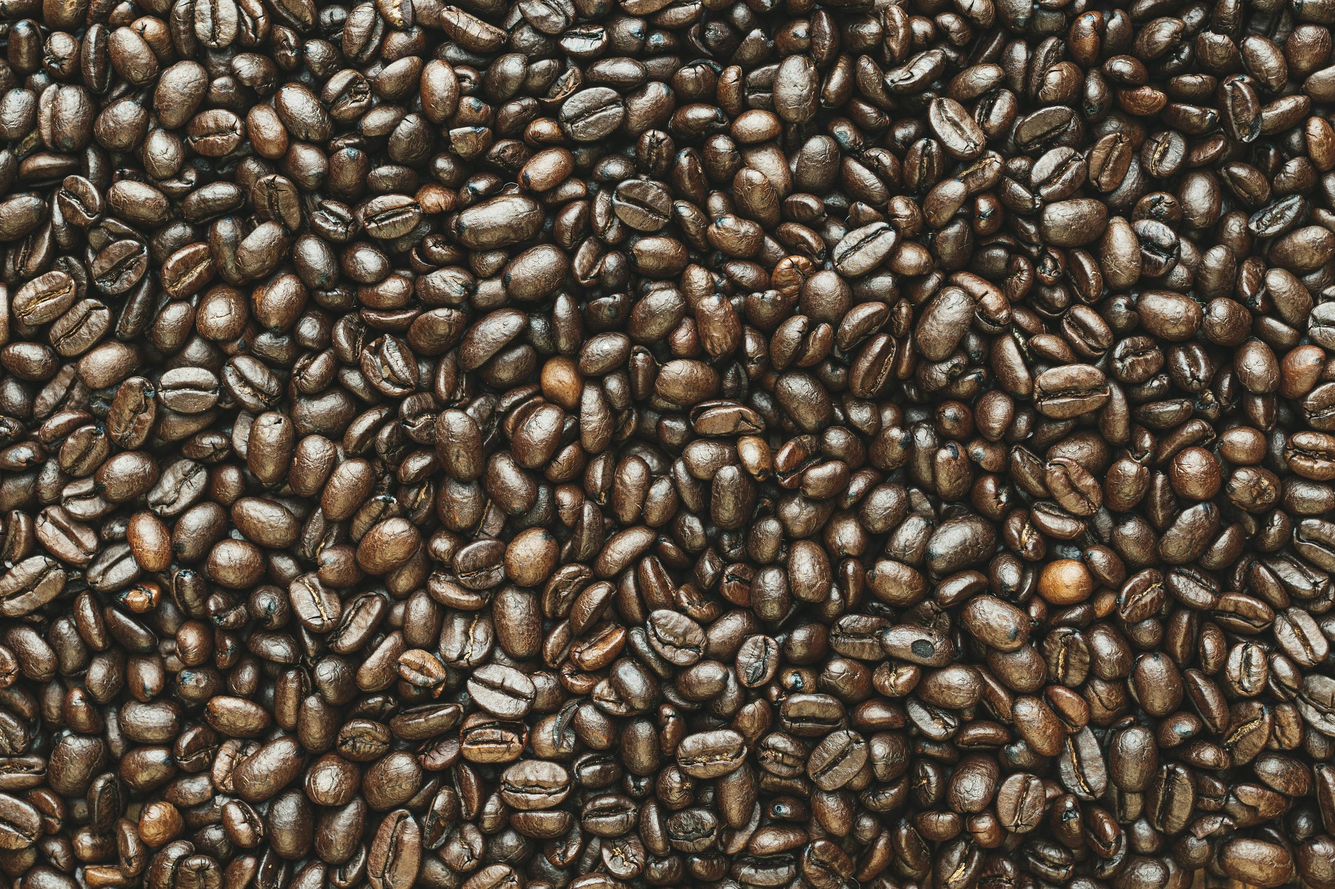
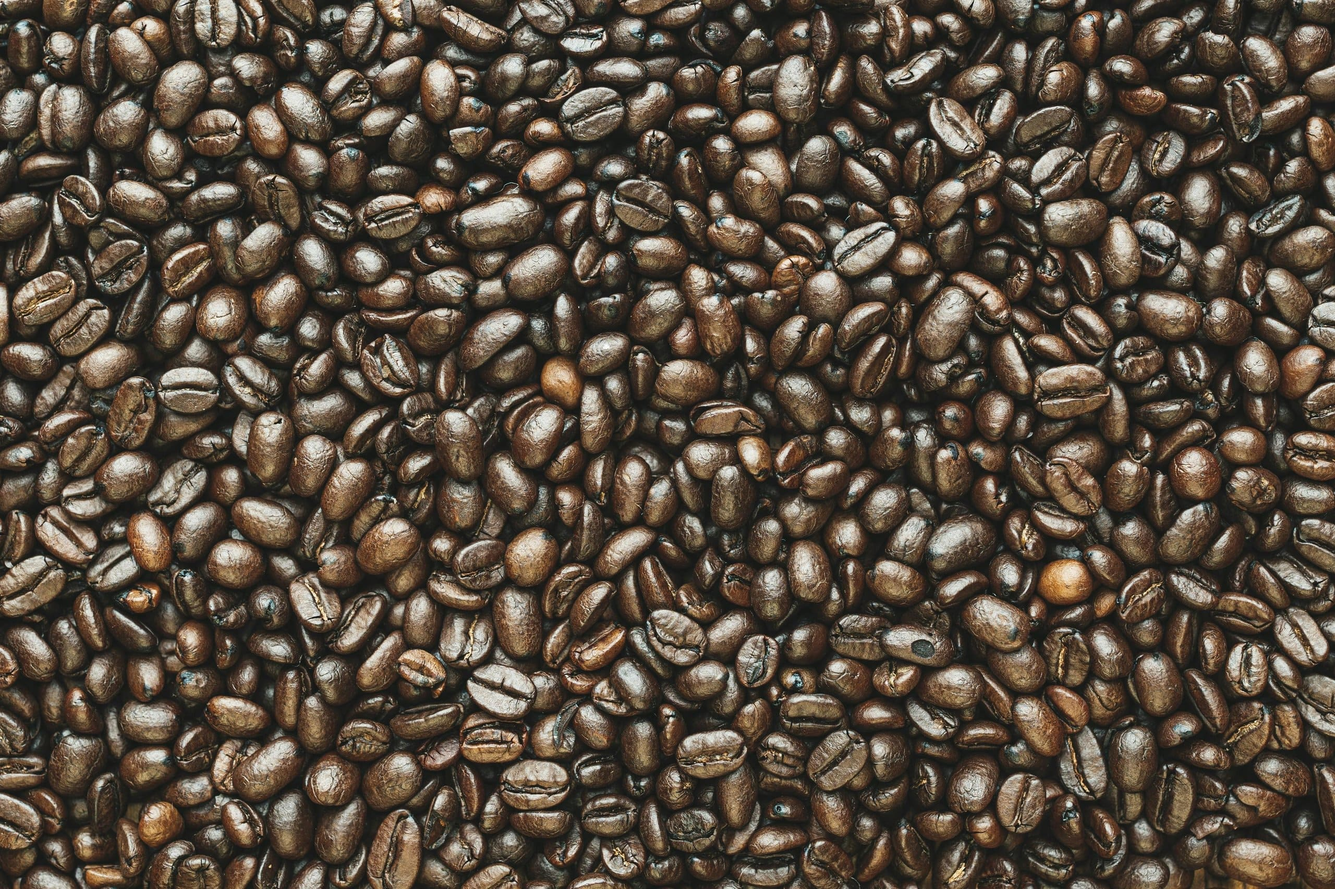
Compressed images and replace hero section font

diff --git a/src/components/Hero.jsx b/src/components/Hero.jsx
@@ -73,14 +73,16 @@ const Hero = () => {
       >
         <div className="text-white mb-8">
           <motion.h1 
-            className="text-7xl mb-6 font-varela leading-tight tracking-tighter"
+            className="text-7xl mb-6  leading-tight tracking-tighter"
             variants={titleVariants}
+            style={{ fontFamily: '"Alef", Sans-serif' }}
           >
             ברסאו קפה אתיופי משובח
           </motion.h1>
           <motion.p 
-            className="text-xl"
+            className="text-2xl"
             variants={subtitleVariants}
+            style={{ fontFamily: '"Alef", Sans-serif', fontWeight: 500 }}
           >
             קפה איכותי המשלב מסורת, תרבות ואיכות בלתי מתפשרת
           </motion.p>
